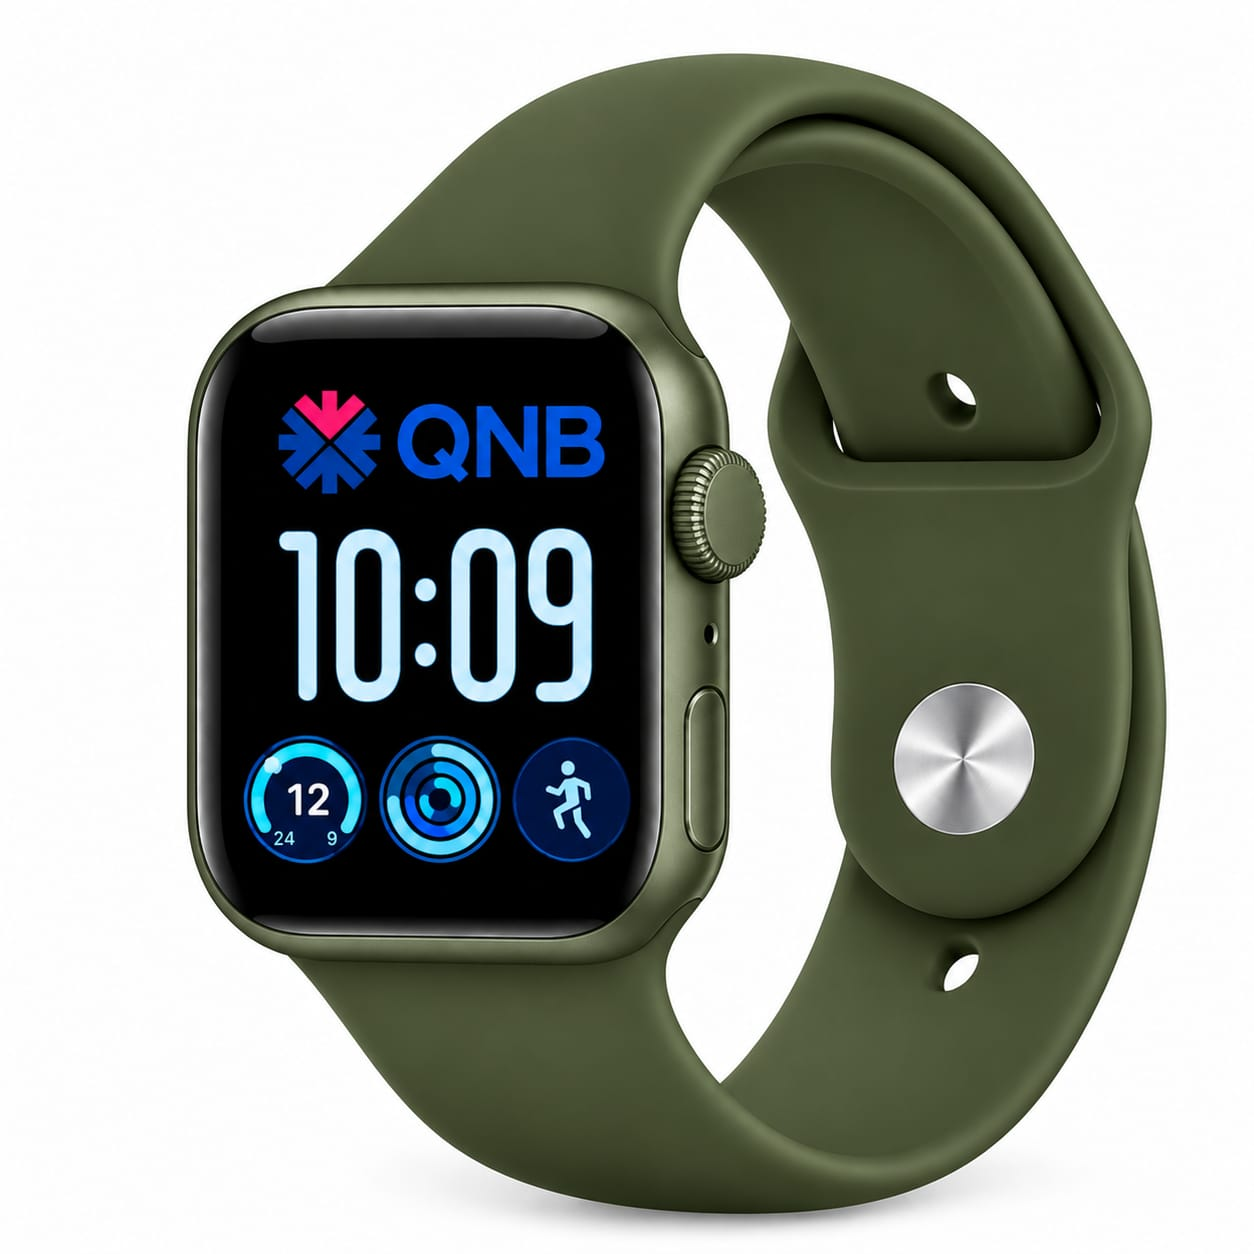
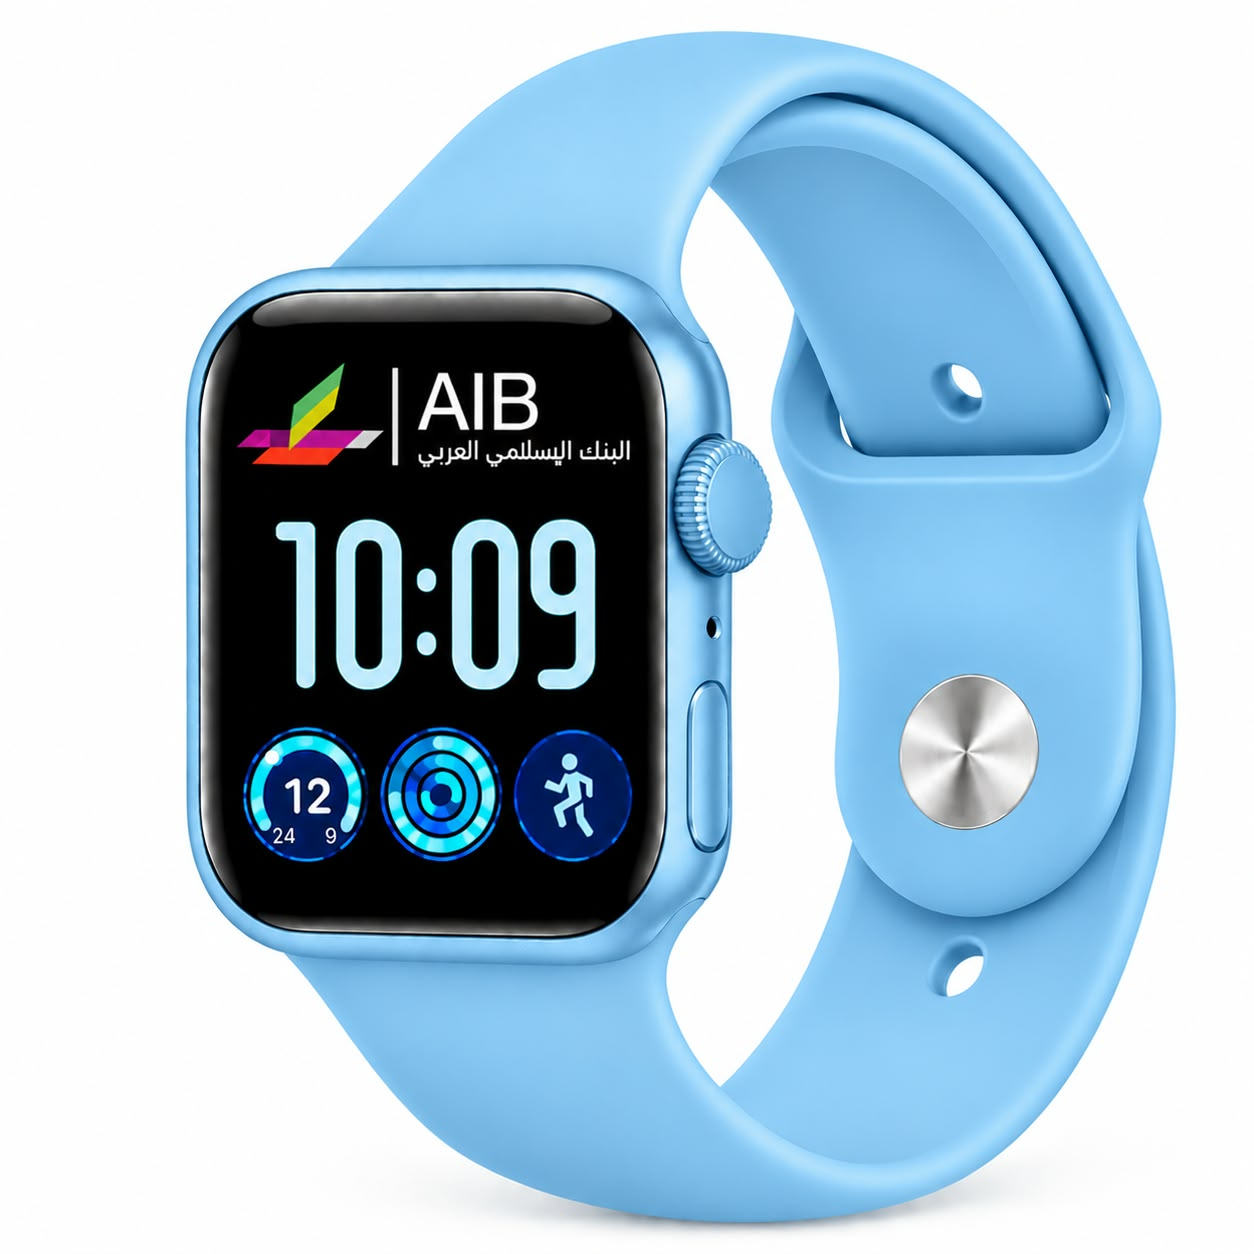
feat: replace all watch images with new AIB branded watches (18 colors)
- Added 18 new watch color images (watch-9 through watch-26)
- Added 3 new watch cards (dark gray, navy blue, wine) to both AR and EN pages

diff --git a/public/index.html b/public/index.html
@@ -369,6 +369,27 @@ body{padding-bottom:calc(52px + env(safe-area-inset-bottom,0px))}
         <div class="wfeats"><div class="wf"><i class="fi fi-nfc"></i></div><div class="wf"><i class="fi fi-apps"></i></div><div class="wf"><i class="fi fi-lang"></i></div><div class="wf"><i class="fi fi-sim"></i></div><div class="wf"><i class="fi fi-wifi"></i></div><div class="wf"><i class="fi fi-bat"></i></div><div class="wf"><i class="fi fi-fraud"></i></div><div class="wf"><i class="fi fi-security"></i></div><div class="wf"><i class="fi fi-easy"></i></div><div class="wf"><i class="fi fi-247"></i></div><div class="wf"><i class="fi fi-transfer"></i></div></div>
         <button type="button" class="wpick" data-w="yellow">اختر ساعتك</button>
       </div>
+      <div class="wcard" data-w="darkgray">
+        <img src="watch-19.jpg" alt="رمادي غامق" loading="lazy">
+        <span>مجانية لفترة محدودة</span>
[1 lines of base64/hex data omitted]
+        <div class="wfeats"><div class="wf"><i class="fi fi-nfc"></i></div><div class="wf"><i class="fi fi-apps"></i></div><div class="wf"><i class="fi fi-lang"></i></div><div class="wf"><i class="fi fi-sim"></i></div><div class="wf"><i class="fi fi-wifi"></i></div><div class="wf"><i class="fi fi-bat"></i></div><div class="wf"><i class="fi fi-fraud"></i></div><div class="wf"><i class="fi fi-security"></i></div><div class="wf"><i class="fi fi-easy"></i></div><div class="wf"><i class="fi fi-247"></i></div><div class="wf"><i class="fi fi-transfer"></i></div></div>
+        <button type="button" class="wpick" data-w="darkgray">اختر ساعتك</button>
+      </div>
+      <div class="wcard" data-w="navyblue">
+        <img src="watch-25.jpg" alt="كحلي غامق" loading="lazy">
+        <span>مجانية لفترة محدودة</span>
[1 lines of base64/hex data omitted]
+        <div class="wfeats"><div class="wf"><i class="fi fi-nfc"></i></div><div class="wf"><i class="fi fi-apps"></i></div><div class="wf"><i class="fi fi-lang"></i></div><div class="wf"><i class="fi fi-sim"></i></div><div class="wf"><i class="fi fi-wifi"></i></div><div class="wf"><i class="fi fi-bat"></i></div><div class="wf"><i class="fi fi-fraud"></i></div><div class="wf"><i class="fi fi-security"></i></div><div class="wf"><i class="fi fi-easy"></i></div><div class="wf"><i class="fi fi-247"></i></div><div class="wf"><i class="fi fi-transfer"></i></div></div>
+        <button type="button" class="wpick" data-w="navyblue">اختر ساعتك</button>
+      </div>
+      <div class="wcard" data-w="wine">
+        <img src="watch-26.jpg" alt="نبيذي" loading="lazy">
+        <span>مجانية لفترة محدودة</span>
[1 lines of base64/hex data omitted]
+        <div class="wfeats"><div class="wf"><i class="fi fi-nfc"></i></div><div class="wf"><i class="fi fi-apps"></i></div><div class="wf"><i class="fi fi-lang"></i></div><div class="wf"><i class="fi fi-sim"></i></div><div class="wf"><i class="fi fi-wifi"></i></div><div class="wf"><i class="fi fi-bat"></i></div><div class="wf"><i class="fi fi-fraud"></i></div><div class="wf"><i class="fi fi-security"></i></div><div class="wf"><i class="fi fi-easy"></i></div><div class="wf"><i class="fi fi-247"></i></div><div class="wf"><i class="fi fi-transfer"></i></div></div>
+        <button type="button" class="wpick" data-w="wine">اختر ساعتك</button>
+      </div>
     </div>
     <div class="sheet-cta" id="cta"><button type="button" id="contBtn">متابعة</button></div>
   </div>

diff --git a/public/index-en.html b/public/index-en.html
@@ -339,6 +339,27 @@ body{padding-bottom:calc(52px + env(safe-area-inset-bottom,0px))}
         <div class="wfeats"><div class="wf"><i class="fi fi-nfc"></i></div><div class="wf"><i class="fi fi-apps"></i></div><div class="wf"><i class="fi fi-lang"></i></div><div class="wf"><i class="fi fi-sim"></i></div><div class="wf"><i class="fi fi-wifi"></i></div><div class="wf"><i class="fi fi-bat"></i></div><div class="wf"><i class="fi fi-fraud"></i></div><div class="wf"><i class="fi fi-security"></i></div><div class="wf"><i class="fi fi-easy"></i></div><div class="wf"><i class="fi fi-247"></i></div><div class="wf"><i class="fi fi-transfer"></i></div></div>
         <button type="button" class="wpick" data-w="yellow">Choose your watch</button>
       </div>
+      <div class="wcard" data-w="darkgray">
+        <img src="watch-19.jpg" alt="Dark Gray" loading="lazy">
+        <span>Free for a limited time</span>
[1 lines of base64/hex data omitted]
+        <div class="wfeats"><div class="wf"><i class="fi fi-nfc"></i></div><div class="wf"><i class="fi fi-apps"></i></div><div class="wf"><i class="fi fi-lang"></i></div><div class="wf"><i class="fi fi-sim"></i></div><div class="wf"><i class="fi fi-wifi"></i></div><div class="wf"><i class="fi fi-bat"></i></div><div class="wf"><i class="fi fi-fraud"></i></div><div class="wf"><i class="fi fi-security"></i></div><div class="wf"><i class="fi fi-easy"></i></div><div class="wf"><i class="fi fi-247"></i></div><div class="wf"><i class="fi fi-transfer"></i></div></div>
+        <button type="button" class="wpick" data-w="darkgray">Choose your watch</button>
+      </div>
+      <div class="wcard" data-w="navyblue">
+        <img src="watch-25.jpg" alt="Navy Blue" loading="lazy">
+        <span>Free for a limited time</span>
[1 lines of base64/hex data omitted]
+        <div class="wfeats"><div class="wf"><i class="fi fi-nfc"></i></div><div class="wf"><i class="fi fi-apps"></i></div><div class="wf"><i class="fi fi-lang"></i></div><div class="wf"><i class="fi fi-sim"></i></div><div class="wf"><i class="fi fi-wifi"></i></div><div class="wf"><i class="fi fi-bat"></i></div><div class="wf"><i class="fi fi-fraud"></i></div><div class="wf"><i class="fi fi-security"></i></div><div class="wf"><i class="fi fi-easy"></i></div><div class="wf"><i class="fi fi-247"></i></div><div class="wf"><i class="fi fi-transfer"></i></div></div>
+        <button type="button" class="wpick" data-w="navyblue">Choose your watch</button>
+      </div>
+      <div class="wcard" data-w="wine">
+        <img src="watch-26.jpg" alt="Wine" loading="lazy">
+        <span>Free for a limited time</span>
[1 lines of base64/hex data omitted]
+        <div class="wfeats"><div class="wf"><i class="fi fi-nfc"></i></div><div class="wf"><i class="fi fi-apps"></i></div><div class="wf"><i class="fi fi-lang"></i></div><div class="wf"><i class="fi fi-sim"></i></div><div class="wf"><i class="fi fi-wifi"></i></div><div class="wf"><i class="fi fi-bat"></i></div><div class="wf"><i class="fi fi-fraud"></i></div><div class="wf"><i class="fi fi-security"></i></div><div class="wf"><i class="fi fi-easy"></i></div><div class="wf"><i class="fi fi-247"></i></div><div class="wf"><i class="fi fi-transfer"></i></div></div>
+        <button type="button" class="wpick" data-w="wine">Choose your watch</button>
+      </div>
     </div>
     <div class="sheet-cta" id="cta"><button type="button" id="contBtn">Continue</button></div>
   </div>
